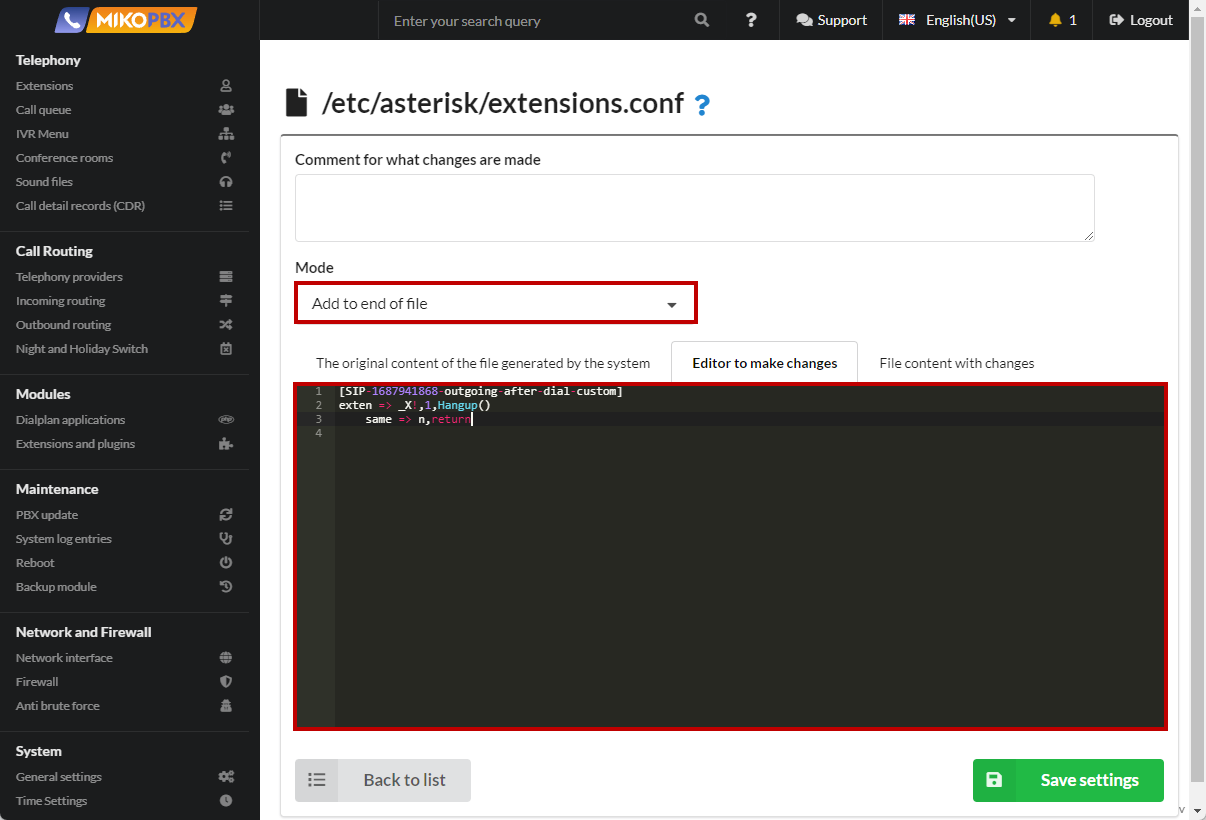
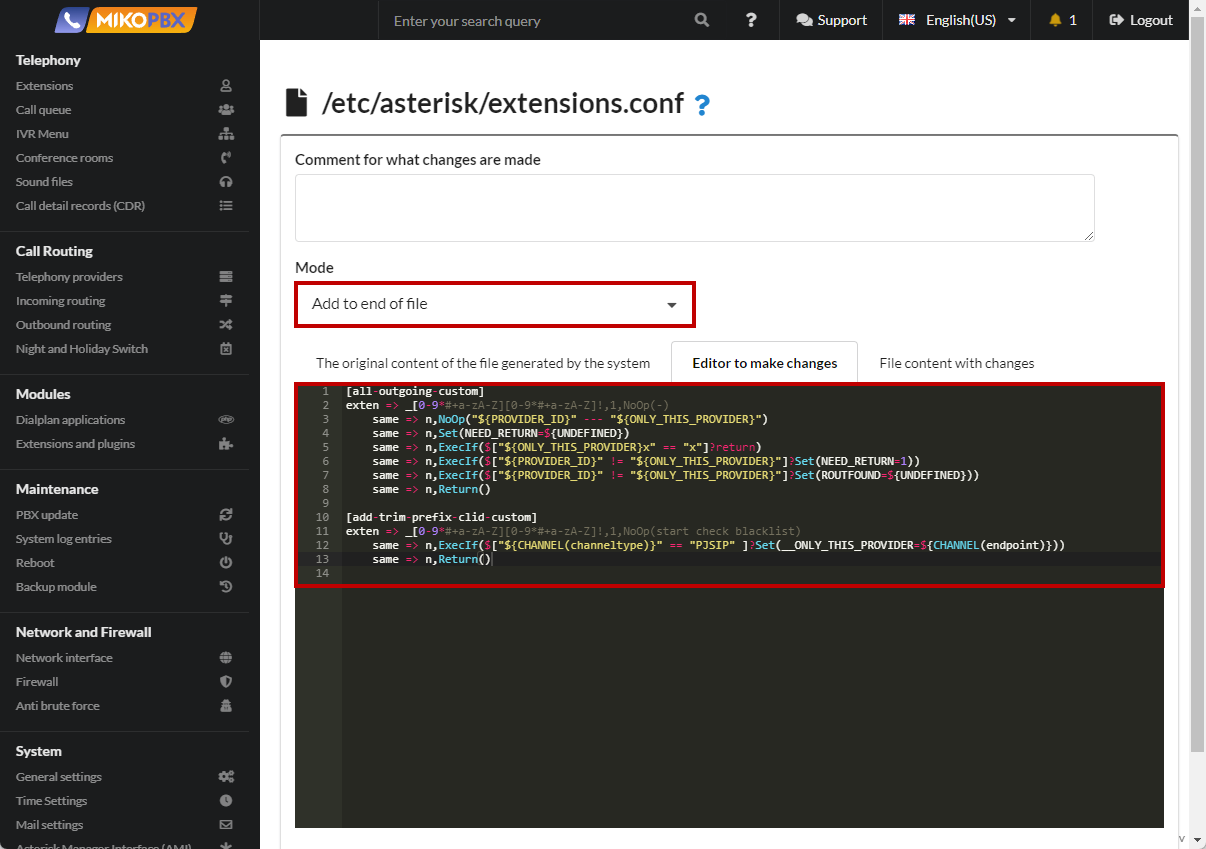
GITBOOK-140: change request with no subject merged in GitBook

diff --git a/faq/incoming-routing/choosing-a-provider-when-redirecting-to-a-mobile.md b/faq/incoming-routing/choosing-a-provider-when-redirecting-to-a-mobile.md
@@ -1,0 +1,33 @@
+# Choosing a provider when redirecting to a mobile
+
+**Task**: Several providers A,B, C, D are installed on the PBX… The call arrives at MikoPBX through provider A. When dialing an employee's mobile number, the call must also go through provider A. **The provider must support more than one simultaneous call.**
+
+1. Go to **System** → **System file customization**
+
+<figure><img src="../../.gitbook/assets/SystemFileCustomization.png" alt=""><figcaption><p>System file customization section</p></figcaption></figure>
+
+2. Open the **extensions.conf** configuration file for editing.
+
+<figure><img src="../../.gitbook/assets/EditExtensions.conf.png" alt=""><figcaption><p>Extensions.conf file</p></figcaption></figure>
+
+3. Set the "**Add to end of file**" mode. In the black window, add the following code snippet:
+
+```php
+[all-outgoing-custom]
+exten => _[0-9*#+a-zA-Z][0-9*#+a-zA-Z]!,1,NoOp(-)
+    same => n,NoOp("${PROVIDER_ID}" --- "${ONLY_THIS_PROVIDER}")
+    same => n,Set(NEED_RETURN=${UNDEFINED})
+    same => n,ExecIf($["${ONLY_THIS_PROVIDER}x" == "x"]?return)
+    same => n,ExecIf($["${PROVIDER_ID}" != "${ONLY_THIS_PROVIDER}"]?Set(NEED_RETURN=1))
+    same => n,ExecIf($["${PROVIDER_ID}" != "${ONLY_THIS_PROVIDER}"]?Set(ROUTFOUND=${UNDEFINED}))
+    same => n,Return()
+    
+[add-trim-prefix-clid-custom]
+exten => _[0-9*#+a-zA-Z][0-9*#+a-zA-Z]!,1,NoOp(start check blacklist)
+    same => n,ExecIf($["${CHANNEL(channeltype)}" == "PJSIP" ]?Set(__ONLY_THIS_PROVIDER=${CHANNEL(endpoint)}))
+    same => n,Return()
+```
+
+<figure><img src="../../.gitbook/assets/CodeForExtensions.png" alt=""><figcaption></figcaption></figure>
+
+4. For each provider, it is necessary to describe the outgoing route

diff --git a/faq/outbound-routing/prohibiting-calls-via-a-backup-route.md b/faq/outbound-routing/prohibiting-calls-via-a-backup-route.md
@@ -28,6 +28,6 @@ exten => _X!,1,Hangup()
 	same => n,return
 ```
 
-<figure><img src="../../.gitbook/assets/CodeForExtensions (1).png" alt=""><figcaption><p>Code in extensions.conf</p></figcaption></figure>
+<figure><img src="../../.gitbook/assets/CodeForExtensions (1) (1).png" alt=""><figcaption><p>Code in extensions.conf</p></figcaption></figure>
 
 Save the changes. Now all calls via routes associated with the provider will occur without taking into account the backup provider. It will work out only the first of the outgoing routes.

diff --git a/SUMMARY.md b/SUMMARY.md
@@ -98,6 +98,8 @@
   * [Number Template](faq/outbound-routing/number-template/README.md)
     * [Uniform distribution of outgoing](faq/outbound-routing/number-template/uniform-distribution-of-outgoing.md)
     * [Sample template: calls to another country](faq/outbound-routing/number-template/sample-template-calls-to-another-country.md)
+* [Incoming Routing](faq/incoming-routing/README.md)
+  * [Choosing a provider when redirecting to a mobile](faq/incoming-routing/choosing-a-provider-when-redirecting-to-a-mobile.md)
 
 ## Modules
 

diff --git a/faq/outbound-routing/outgoing-with-internal-number-dialing.md b/faq/outbound-routing/outgoing-with-internal-number-dialing.md
@@ -29,7 +29,7 @@ exten => s,1,NoOp(Answered send DTMF...)
   same => n,return
 ```
 
-<figure><img src="../../.gitbook/assets/CodeForExtensions.png" alt=""><figcaption><p>Code for extensions,conf</p></figcaption></figure>
+<figure><img src="../../.gitbook/assets/CodeForExtensions (3).png" alt=""><figcaption><p>Code for extensions,conf</p></figcaption></figure>
 
 4. Next, it is necessary to describe the [Applications of dialplans](../../manual/modules/dialplan-applications.md)
 

diff --git a/faq/incoming-routing/README.md b/faq/incoming-routing/README.md
@@ -1,0 +1,2 @@
+# Incoming Routing
+
